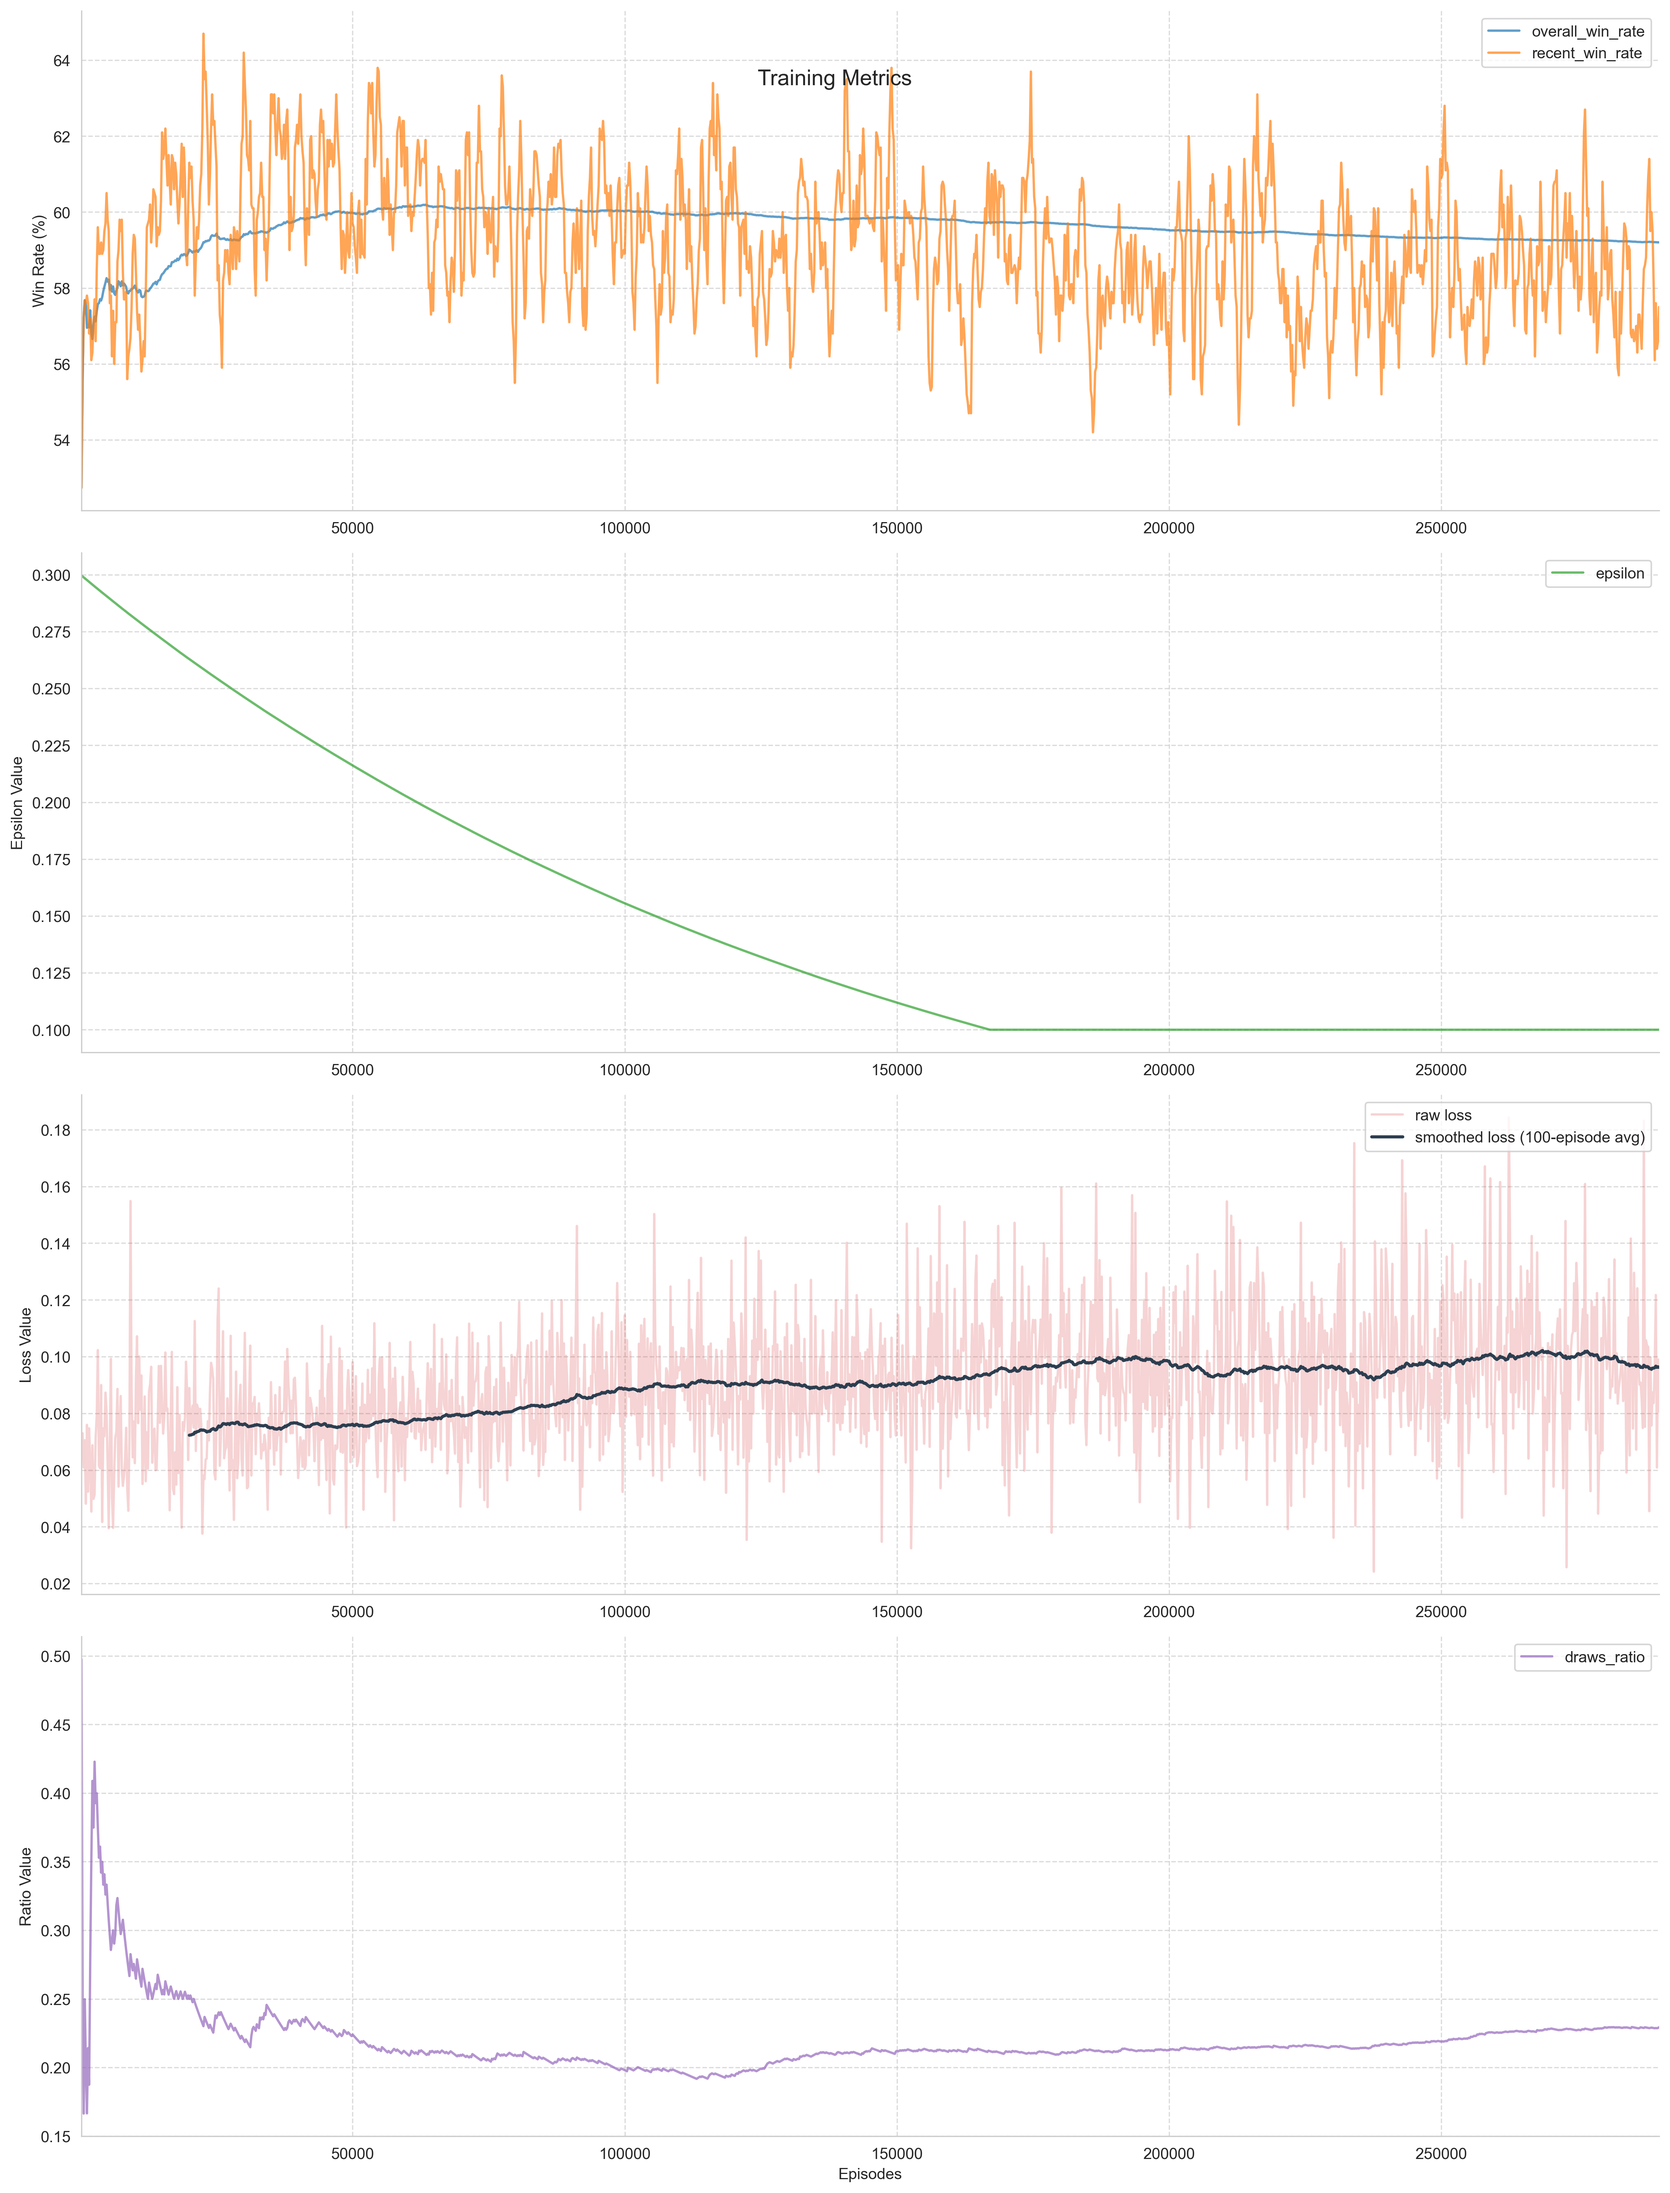
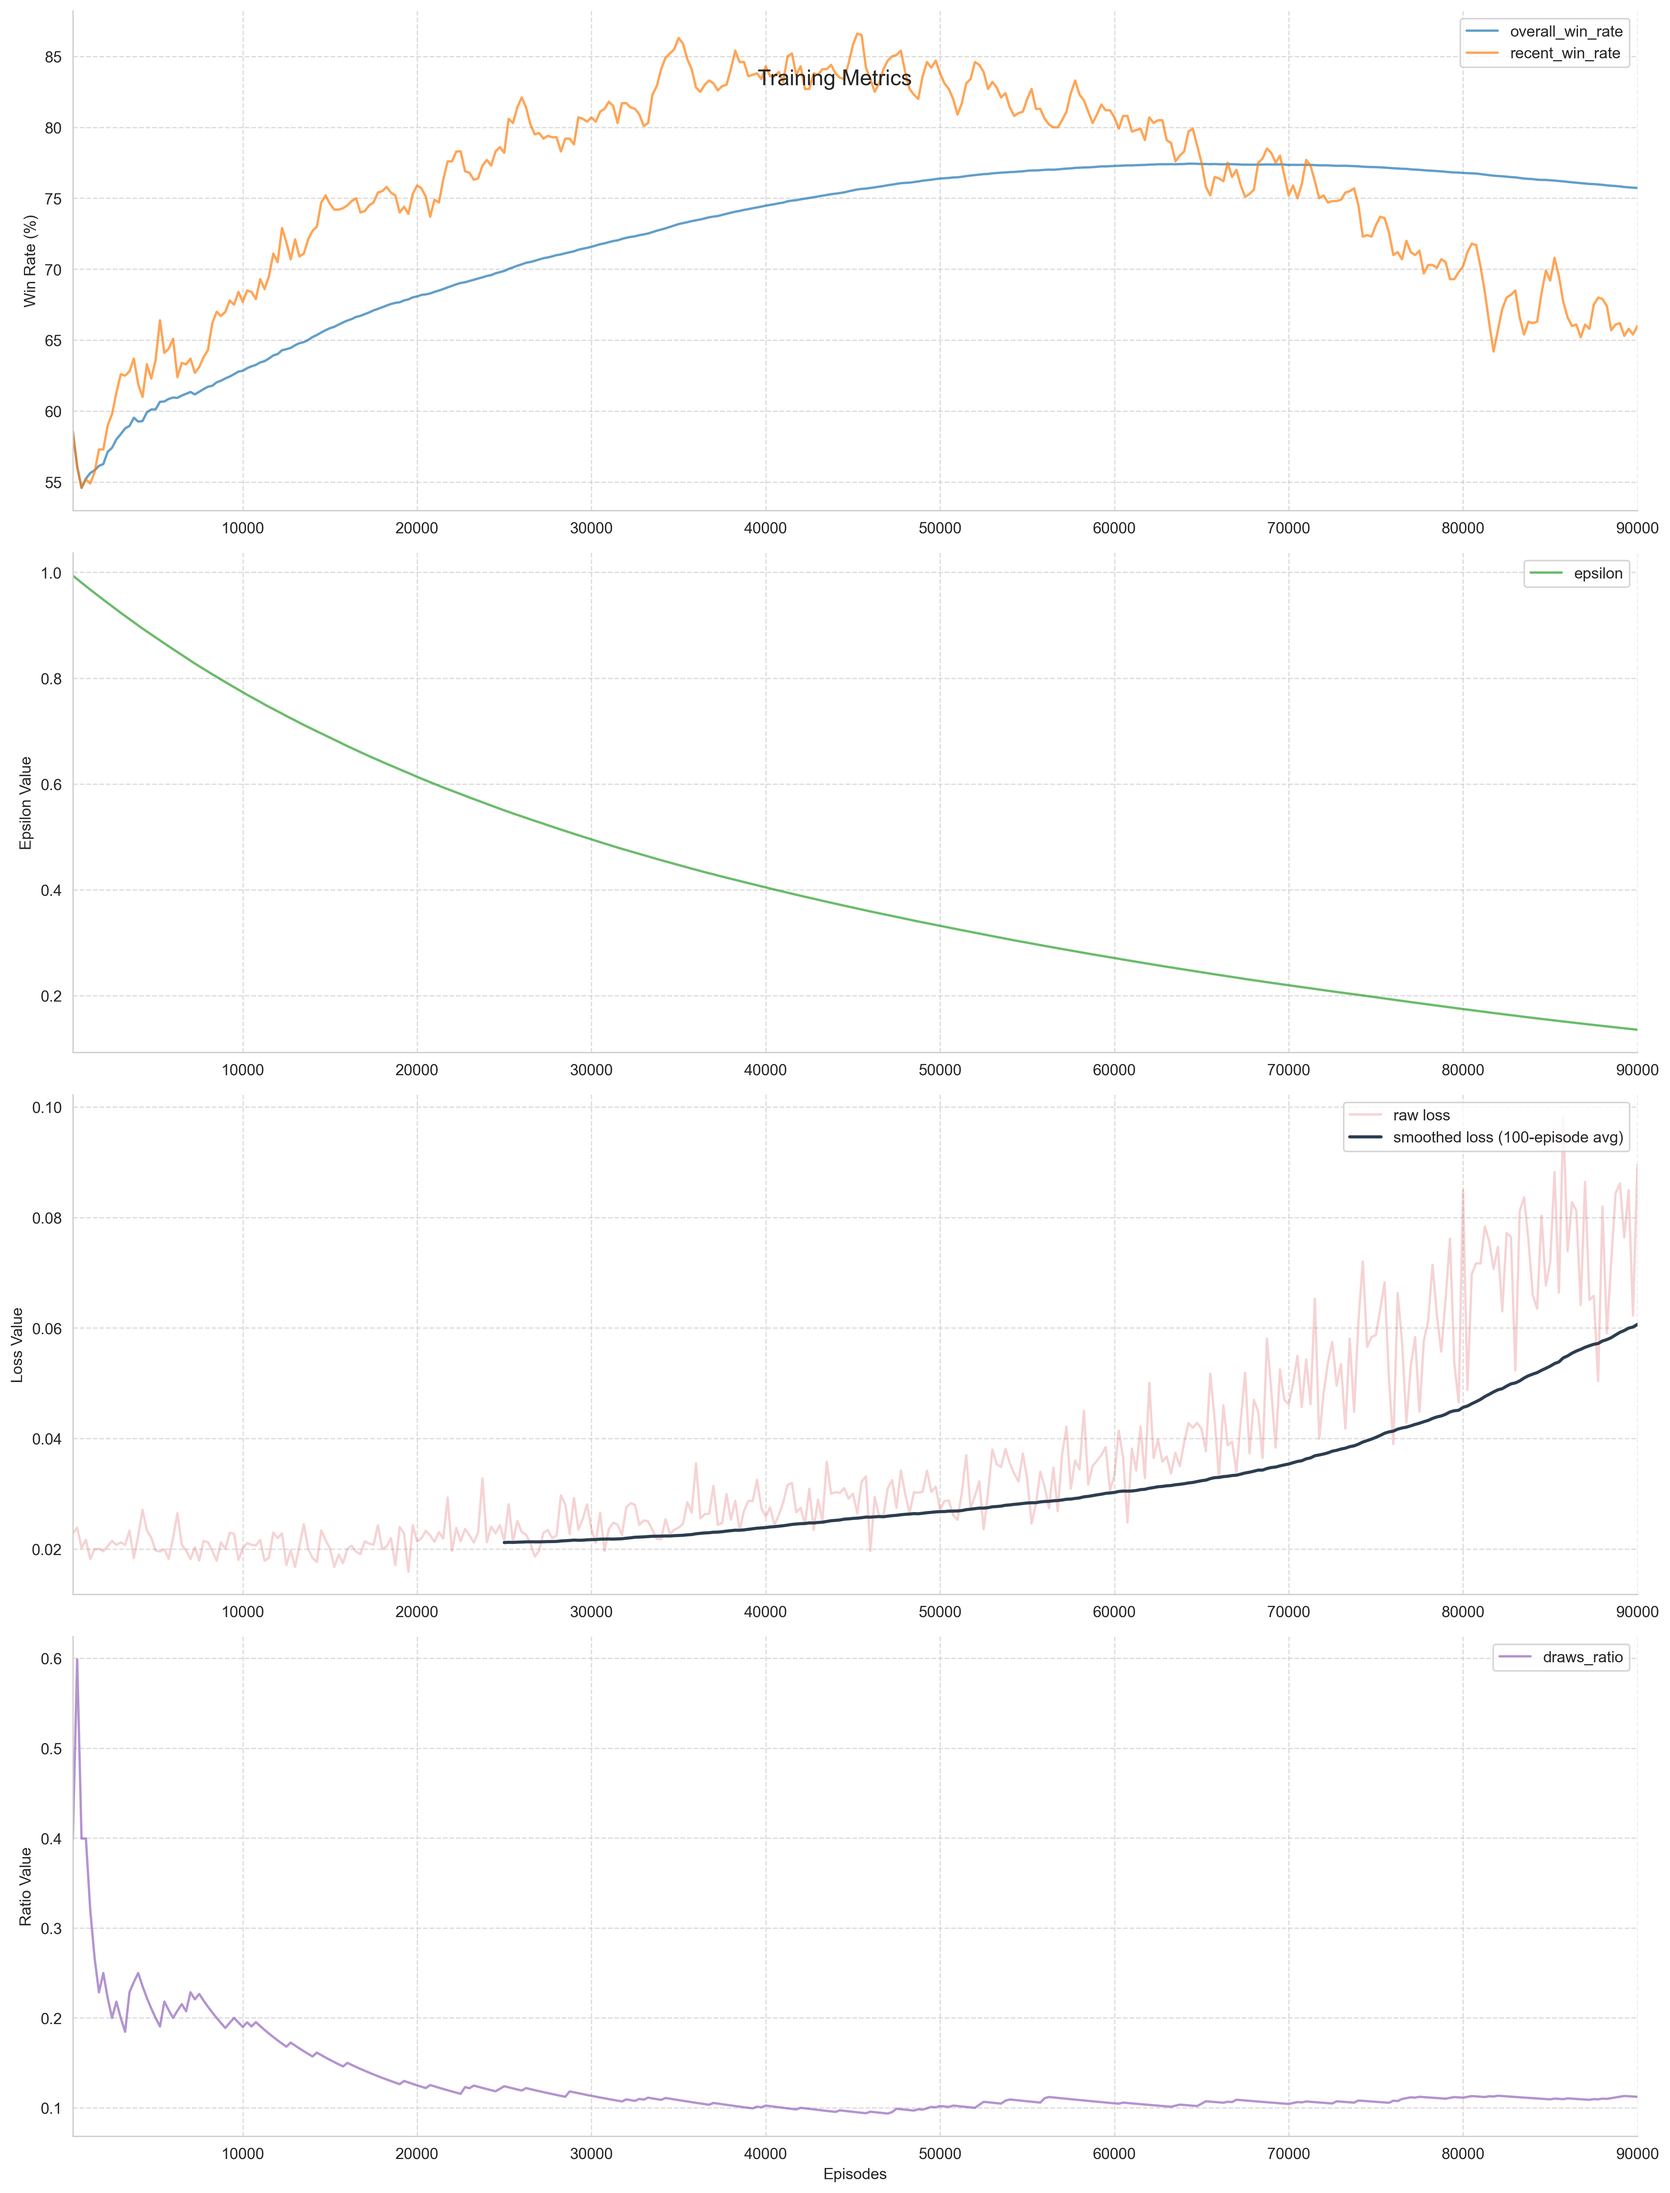
change hyperparams

diff --git a/connectfour/dqn_agent.py b/connectfour/dqn_agent.py
@@ -31,6 +31,7 @@ class DQNAgent:
         self.tau = tau
         self.temperature = temperature
 
+        self.epsilon_start = epsilon_start
         self.epsilon = epsilon_start
         self.epsilon_end = epsilon_end
         self.epsilon_decay = epsilon_decay
@@ -45,6 +46,7 @@ class DQNAgent:
         self.memory = ReplayMemory(memory_capacity, device)
         self.loss_window = []
         self.loss_window_size = 100
+        self.training_steps = 0
 
     def select_action(self, state, valid_moves, deterministic=False):
         if deterministic:
@@ -121,9 +123,15 @@ class DQNAgent:
         if self.training_steps % 100 == 0:
             self.soft_update_target_network()
 
-        self.epsilon = max(self.epsilon_end, self.epsilon * self.epsilon_decay)
+        self.epsilon = self.get_epsilon(self.training_steps)
 
         return loss_value
+
+    def get_epsilon(self, episode):
+        # Reset epsilon every 50k episodes
+        cycle_episode = episode % 50000
+        base_epsilon = max(self.epsilon_end, self.epsilon_start * (self.epsilon_decay ** cycle_episode))
+        return base_epsilon
 
     def soft_update_target_network(self):
         for target_param, policy_param in zip(

diff --git a/connectfour/train_random.py b/connectfour/train_random.py
@@ -22,11 +22,11 @@ class TrainingConfig:
     # DQN specific parameters
     batch_size: int = 512
     memory_capacity: int = 1_00_000
-    learning_rate: float = 1e-4
+    learning_rate: float = 1e-5
     gamma: float = 0.99
     epsilon_start: float = 1.0
-    epsilon_end: float = 0.1
-    epsilon_decay: float = 0.999995
+    epsilon_end: float = 0.2
+    epsilon_decay: float = 0.999997
 
 
 class DQNTrainer:

diff --git a/connectfour/plot_trainings_metrics.py b/connectfour/plot_trainings_metrics.py
@@ -123,7 +123,7 @@ class MetricsVisualizer:
 
 
 def main():
-    metrics_path = "./metrics/dqn_training_metrics.json"
+    metrics_path = "./metrics/dqn_training_metrics_random_first_player_90000.json"
     visualizer = MetricsVisualizer(metrics_path)
 
     # Print detailed debug information
